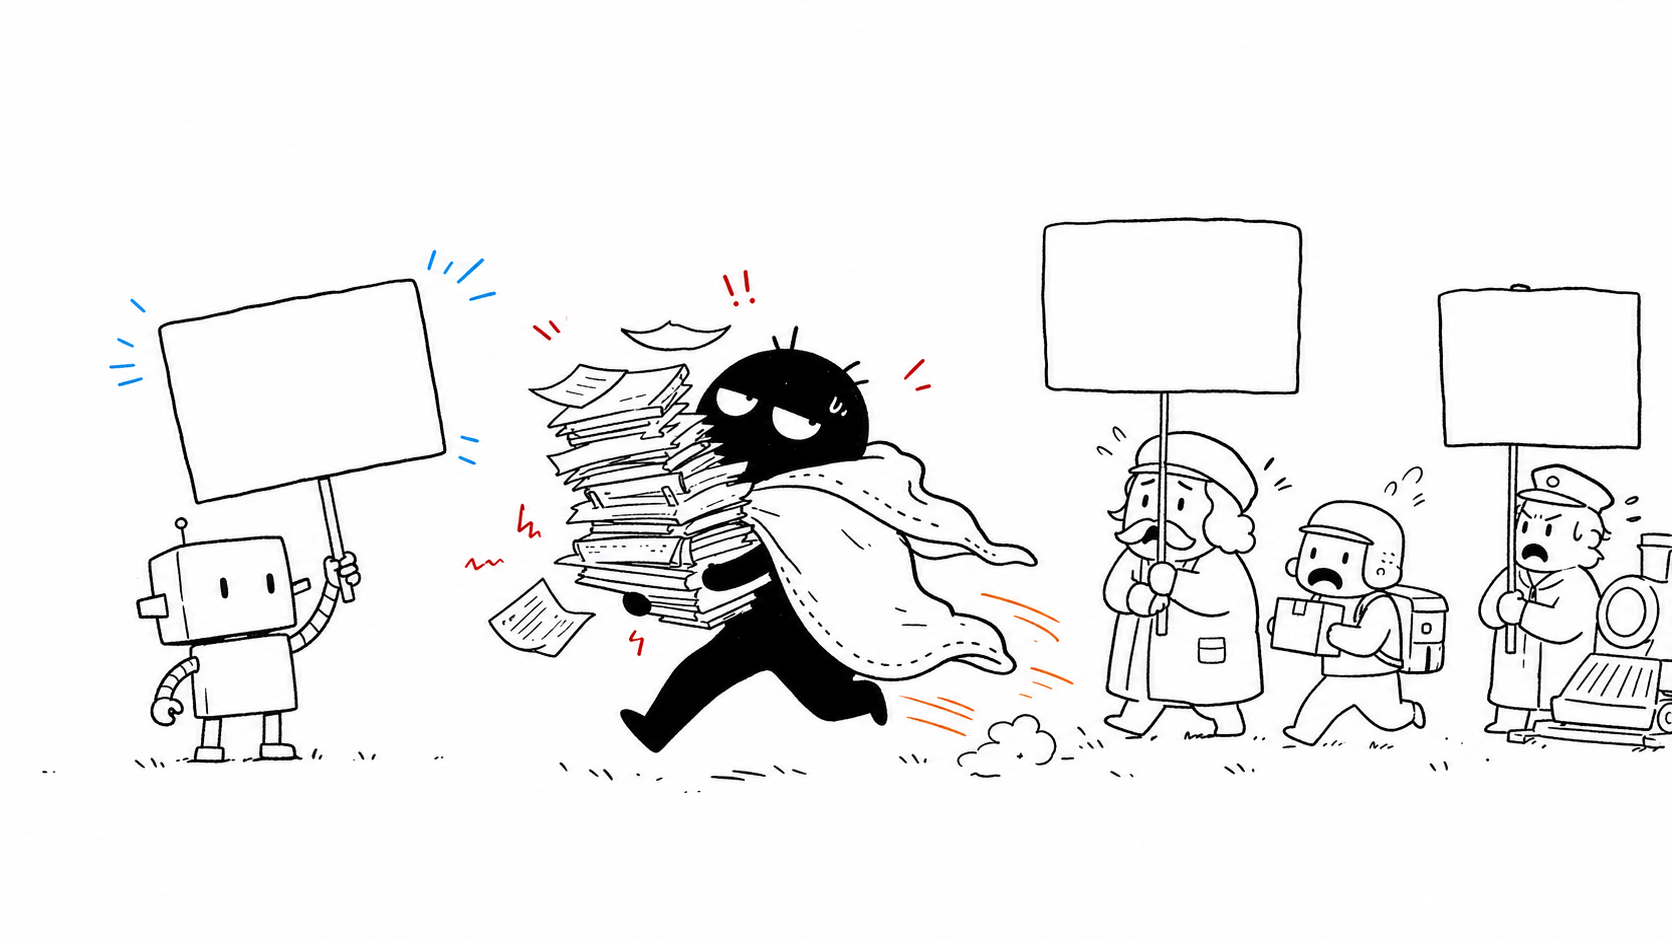
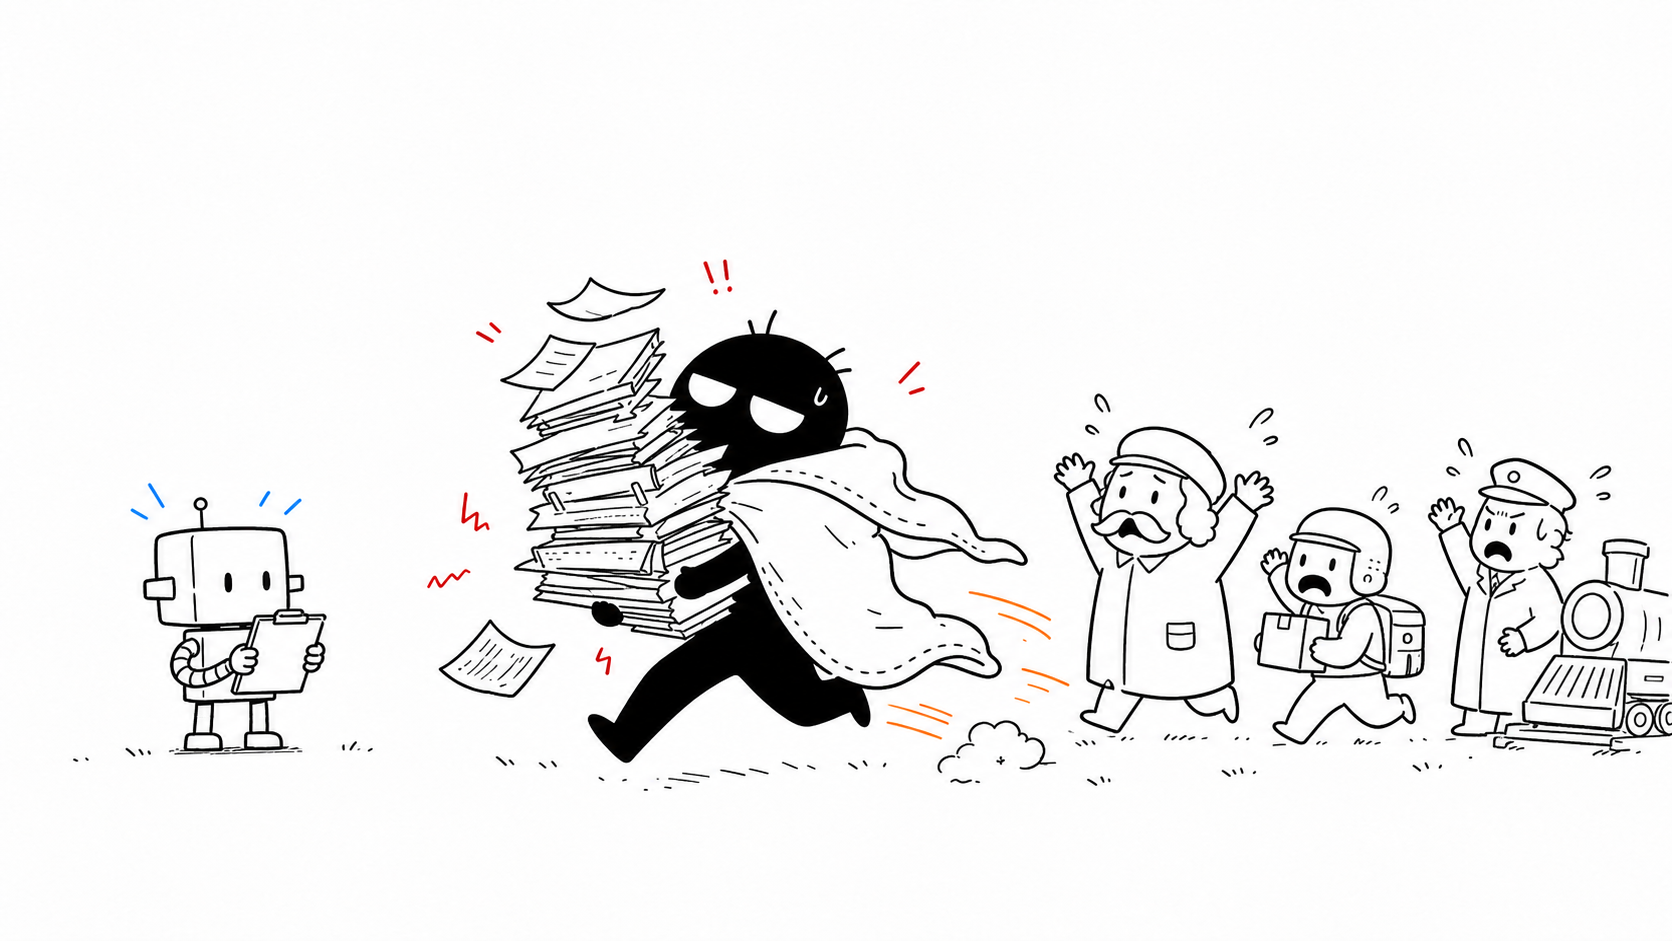
Apply v3 black unframed lettering

diff --git a/gallery/daily-4panel/2026-05-29-lingchen-sandian/build_comic.py b/gallery/daily-4panel/2026-05-29-lingchen-sandian/build_comic.py
@@ -54,27 +54,27 @@ def annotate_panel(i):
     draw = ImageDraw.Draw(img)
 
     if i == 1:
-        fit_text(draw, (665, 335, 905, 445), "03:00\n主库告警 x47", 38, 24, RED)
-        text(draw, (230, 230), "……又是这个点。", 38, ORANGE)
+        text(draw, (650, 475), "03:00\n主库告警 x47", 34, BLACK)
+        text(draw, (220, 270), "……又是这个点。", 38, BLACK)
         text(draw, (55, 55), "①", 54, BLACK)
     elif i == 2:
-        fit_text(draw, (145, 290, 430, 430), "默认题：\nstateless？", 40, 24, BLUE)
-        fit_text(draw, (650, 120, 990, 265), "我有 7 个脚本……\n和 0 小时\n睡眠。", 40, 24, ORANGE)
-        fit_text(draw, (1085, 310, 1350, 420), "我们有记忆！", 40, 24, RED)
+        text(draw, (150, 250), "默认题：stateless？", 36, BLACK)
+        text(draw, (690, 155), "我有 7 个脚本……\n和 0 小时睡眠。", 38, BLACK)
+        text(draw, (1110, 300), "我们有记忆！", 38, BLACK)
         text(draw, (55, 55), "②", 54, BLACK)
     elif i == 3:
-        text(draw, (965, 150), "声明期望状态，\n流程我来编排。", 34, BLUE)
-        fit_text(draw, (640, 710, 960, 790), "……它怎么一点都不慌。", 34, 22, ORANGE)
+        text(draw, (910, 155), "声明期望状态，\n流程我来编排。", 34, BLACK)
+        text(draw, (650, 735), "……它怎么一点都不慌。", 30, BLACK)
         labels = ["备份", "恢复", "扩容", "故障切换"]
-        boxes = [(1410, 315, 1570, 370), (1410, 435, 1570, 490), (1410, 560, 1570, 615), (1360, 680, 1570, 735)]
-        for label, box in zip(labels, boxes):
-            fit_text(draw, box, label, 28, 20, ORANGE)
+        positions = [(1425, 310), (1425, 430), (1425, 550), (1370, 670)]
+        for label, pos in zip(labels, positions):
+            text(draw, pos, label, 28, BLACK)
         text(draw, (55, 55), "③", 54, BLACK)
     elif i == 4:
         text(draw, (140, 200), "昨晚那么大动静，\n是谁救的火？", 42, BLACK)
-        text(draw, (565, 265), "我……主要负责\n没添乱。", 34, ORANGE)
-        fit_text(draw, (1190, 750, 1575, 855), "睡眠：6h\n历史新高", 38, 24, ORANGE)
-        fit_text(draw, (1130, 625, 1350, 680), "正常运行", 32, 22, BLUE)
+        text(draw, (560, 255), "我……主要负责\n没添乱。", 36, BLACK)
+        text(draw, (1190, 740), "睡眠：6h\n历史新高", 36, BLACK)
+        text(draw, (1130, 640), "正常运行", 30, BLACK)
         text(draw, (55, 55), "④", 54, BLACK)
 
     out = ROOT / f"panel-{i}.png"
@@ -91,7 +91,7 @@ def assemble(paths):
     canvas = Image.new("RGB", (w * 2 + gutter + margin * 2, h * 2 + gutter + margin * 2 + title_h), "white")
     draw = ImageDraw.Draw(canvas)
     text(draw, (margin, 36), "凌晨三点，数据库城市又响了", 54, BLACK)
-    text(draw, (margin, 96), "KubeBlocks 四格漫画试作 | 小黑 = SRE", 28, BLUE)
+    text(draw, (margin, 96), "KubeBlocks 四格漫画试作 | 小黑 = SRE", 28, BLACK)
     positions = [
         (margin, margin + title_h),
         (margin + w + gutter, margin + title_h),

diff --git a/gallery/daily-4panel/2026-05-29-lingchen-sandian/prompt.md b/gallery/daily-4panel/2026-05-29-lingchen-sandian/prompt.md
@@ -6,27 +6,27 @@
 
 For text accuracy, each generated panel requested no readable text. Chinese was added afterward during local post-processing.
 
-Series convention after v2 review: character dialogue and narration use unframed handwritten text. Keep borders only when the object itself is a screen, sign, label plate, or status plaque.
+Series convention after v3 review: all readable text should be black and unframed by default. Do not use red/orange/blue text to identify speakers. Avoid ordinary speech bubbles, text boxes, placards, signs, and label plates. Color is reserved for rare non-text accents such as alert marks, motion strokes, routing lines, and tower lights.
 
 ## Panel 1
 
-3:00 AM in a quiet room. Xiaohei is jolted awake sitting upright in bed with the blanket over its legs, holding a vibrating phone. Through the window is a simplified database city at night: archive building smoking, delivery station in chaos, distant railway jammed. Clear silhouettes, no logos. Blank phone alert and speech bubble spaces.
+3:00 AM in a quiet room. Xiaohei is jolted awake sitting upright in bed with the blanket over its legs, holding a vibrating phone. Through the window is a simplified database city at night: archive building smoking, delivery station in chaos, distant railway jammed. Clear silhouettes, no logos. No speech bubbles, alert boxes, placards, or signs.
 
 ## Panel 2
 
-Xiaohei runs through the database city at night, wearing a blanket like a cape, holding a collapsing stack of old scripts. A small square-headed platform robot holds a blank sign, representing the platform world's default stateless bias. Database residents protest with blank placards. Keep the scene simple.
+Xiaohei runs through the database city at night, wearing a blanket like a cape, holding a collapsing stack of old scripts. A small square-headed platform robot reads a small clipboard, representing the platform world's default stateless bias. Database residents protest with gestures only. No blank signs or placards.
 
 ## Panel 3
 
-A plain, calm KubeBlocks control tower / operations console appears in the middle. It is not a person and not a hero. Messy streams from worried database residents are calmly routed into four orderly lanes. Xiaohei watches in exhausted disbelief.
+A plain, calm KubeBlocks control tower / operations console appears in the middle. It is not a person and not a hero. Messy streams from worried database residents are calmly routed into four orderly lanes without label plates. Xiaohei watches in exhausted disbelief.
 
 ## Panel 4
 
-Morning meeting. A simple square manager asks a question. Xiaohei points toward a calm operations control tower in the background. Database city is peaceful, residents sleeping, tower has one steady light. Blank counter plaque bottom right.
+Morning meeting. A simple square manager asks a question. Xiaohei points toward a calm operations control tower in the background. Database city is peaceful, residents sleeping, tower has one steady light. No speech bubbles, status plaques, or counter boxes.
 
 ## Final Text Overlay
 
-- Panel 1: `03:00 主库告警 x47`; `……又是这个点。`
-- Panel 2: `默认题：stateless？`; `我有 7 个脚本……和 0 小时睡眠。`; `我们有记忆！`
-- Panel 3: `声明期望状态，流程我来编排。`; `备份`; `恢复`; `扩容`; `故障切换`; `……它怎么一点都不慌。`
-- Panel 4: `昨晚那么大动静，是谁救的火？`; `我……主要负责没添乱。`; `正常运行`; `睡眠：6h 历史新高`
+- Panel 1: black unframed text: `03:00 主库告警 x47`; `……又是这个点。`
+- Panel 2: black unframed text: `默认题：stateless？`; `我有 7 个脚本……和 0 小时睡眠。`; `我们有记忆！`
+- Panel 3: black unframed text: `声明期望状态，流程我来编排。`; `备份`; `恢复`; `扩容`; `故障切换`; `……它怎么一点都不慌。`
+- Panel 4: black unframed text: `昨晚那么大动静，是谁救的火？`; `我……主要负责没添乱。`; `正常运行`; `睡眠：6h 历史新高`
